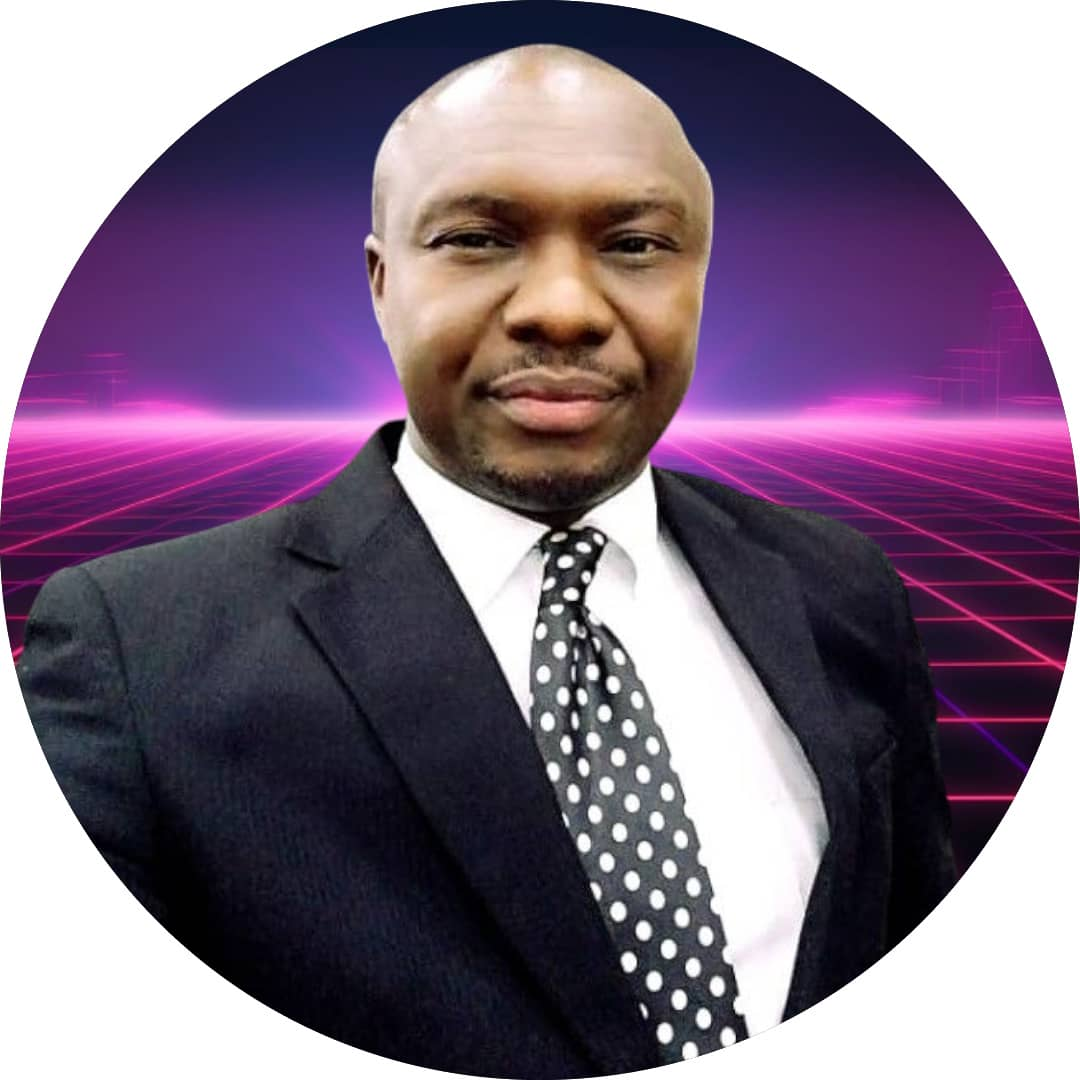
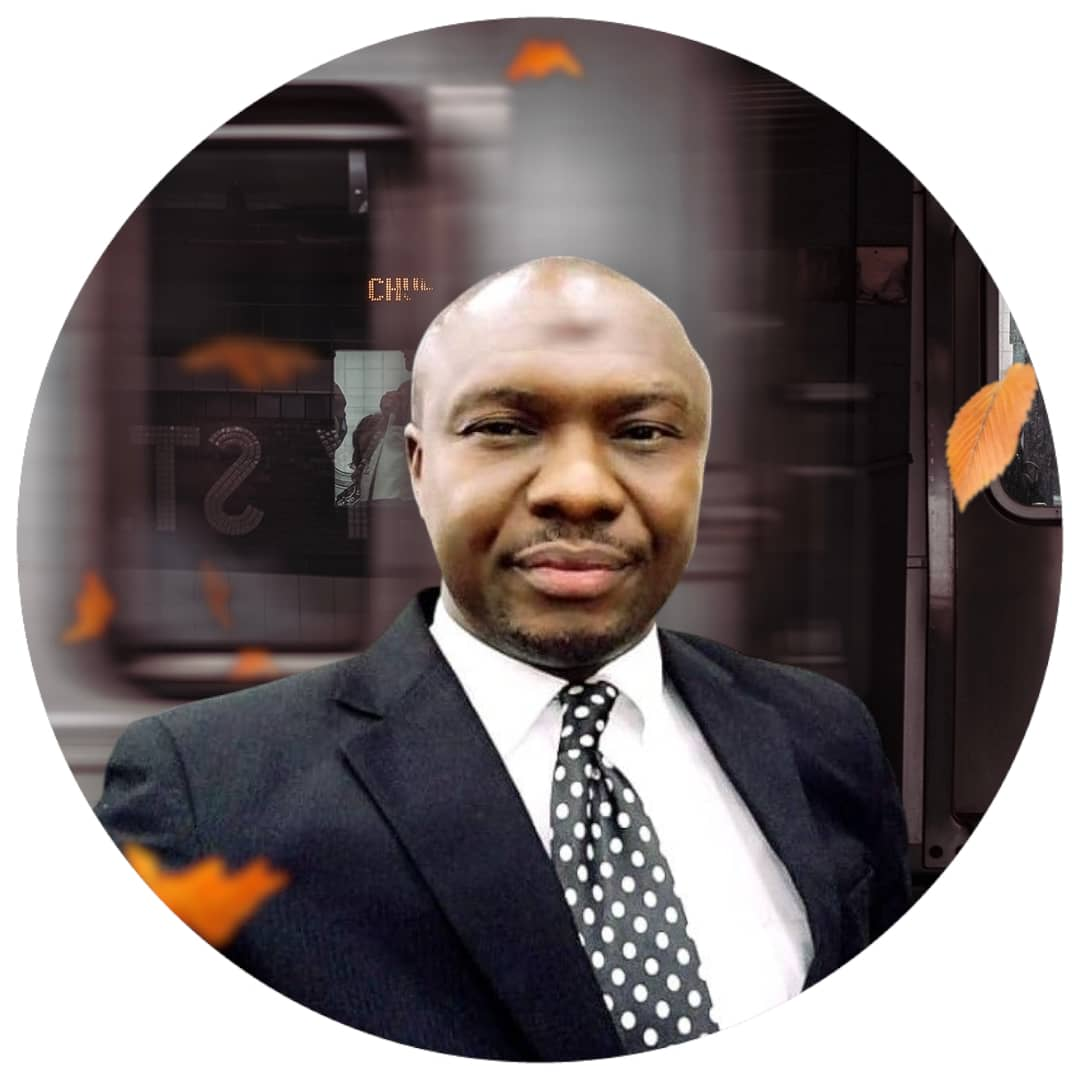
change photos

diff --git a/index.html b/index.html
@@ -674,7 +674,7 @@
             <div class="executive-grid">
                 <div class="executive-member">
                     <div class="member-image">
-                        <img src="images/john.jpg" alt="Executive Member">
+                        <img src="images/john1.jpg" alt="Executive Member">
                     </div>
                     <div class="member-info">
                         <h3>Onuoha John Jr</h3>
